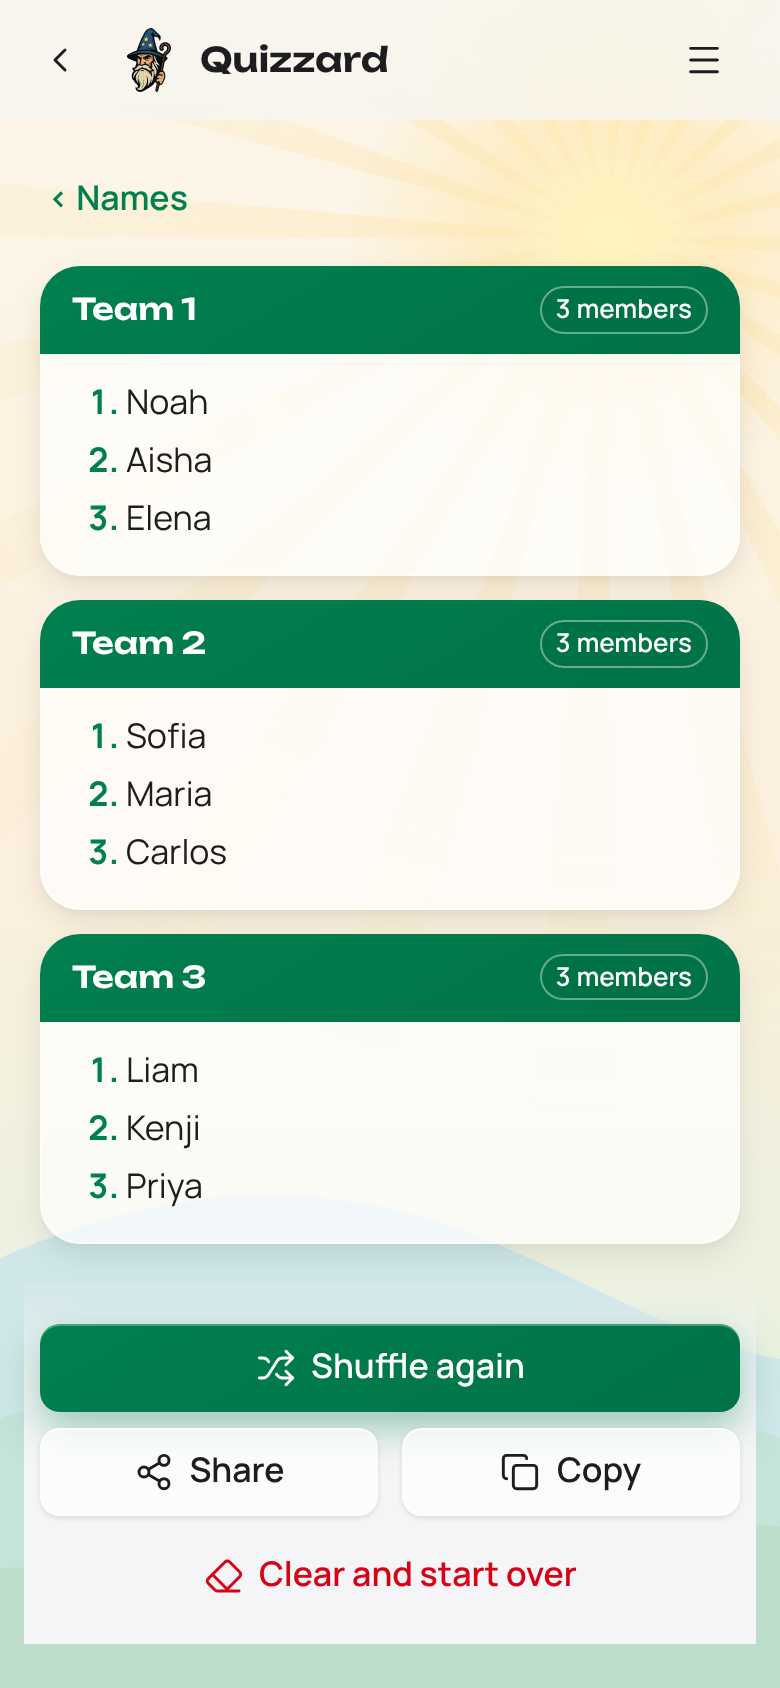
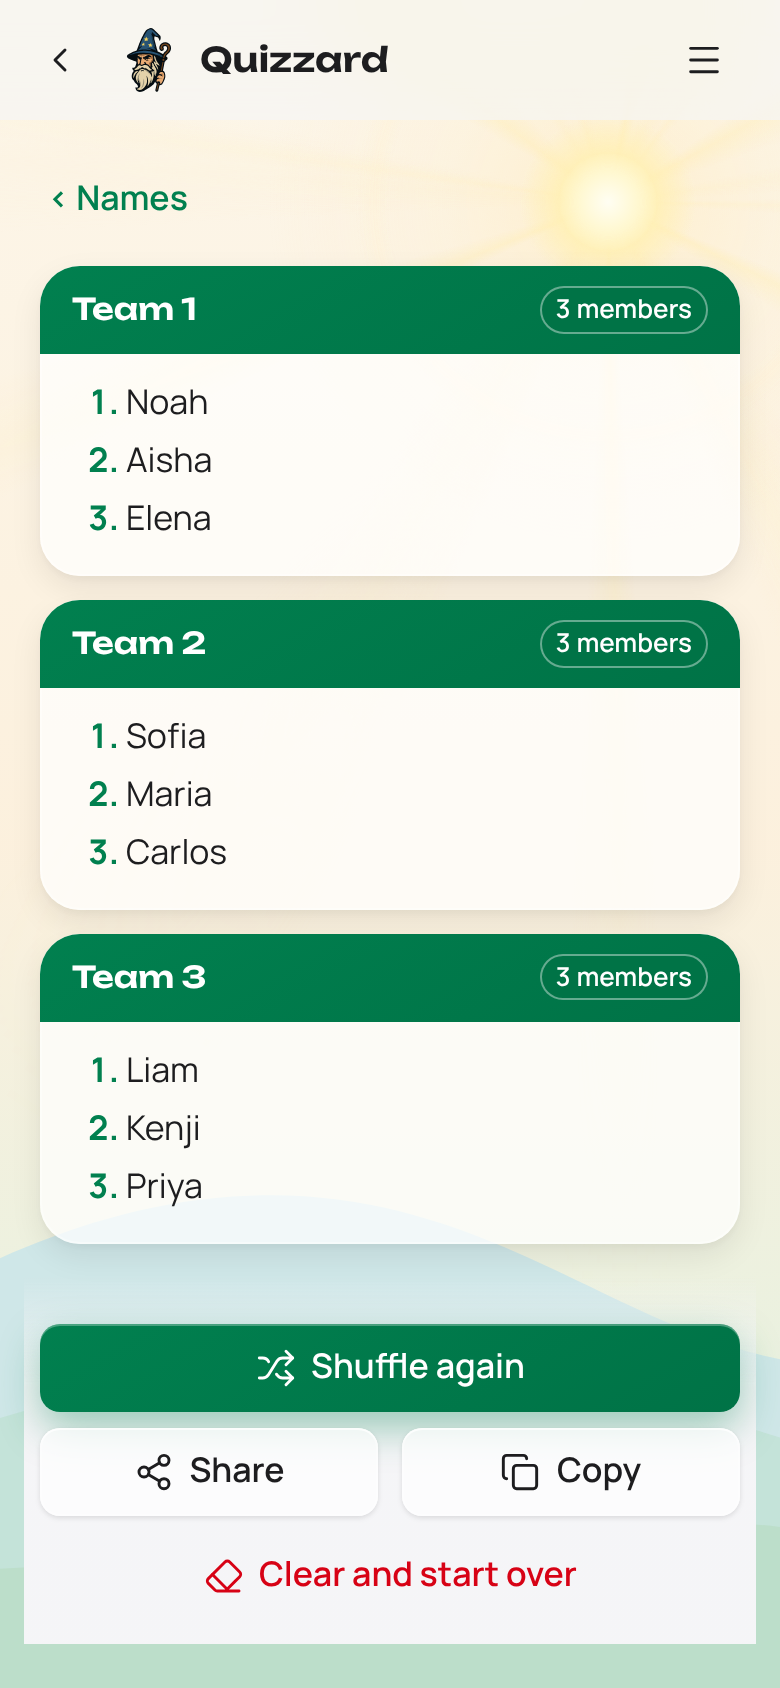
feat: a calmer day sun — soft uneven beams, bloom and lens halo (0.16.2)
Claude-Session: https://claude.ai/code/session_011u5MwhQ4SCvg7CGyrWTMMa

diff --git a/app/src/styles/components/scene.css b/app/src/styles/components/scene.css
@@ -126,42 +126,144 @@
   }
 
   /* || Components: scene — day */
-  /* Pale rays from the sun, turning very slowly; a radial mask fades them out long before the edges. */
+  /* Light from the sun, like beams through haze rather than a drawn sun: two fans of soft beams of uneven width
+     and angle, turning very slowly in opposite directions, so where they cross the light shimmers. Every beam
+     fades in and out (no hard edge), and a radial mask lets them die out long before the edges of the screen. */
   .scene-rays {
     --scene-sun-x: 78%;
-    --scene-sun-y: 14%;
-    --scene-rays-size: 170vmax;
+    --scene-sun-y: 12%;
+    --scene-rays-size: 190vmax;
+    --scene-beam: oklch(96% 0.07 88 / 0.62);
+    --scene-beam-soft: oklch(96% 0.06 88 / 0.34);
 
     position: absolute;
     left: calc(var(--scene-sun-x) - var(--scene-rays-size) / 2);
     top: calc(var(--scene-sun-y) - var(--scene-rays-size) / 2);
     inline-size: var(--scene-rays-size);
     block-size: var(--scene-rays-size);
-    background: repeating-conic-gradient(
-      oklch(93% 0.07 88 / 0.55) 0deg 5deg,
-      transparent 5deg 15deg
+    mask: radial-gradient(
+      circle,
+      black 0%,
+      rgb(0 0 0 / 0.55) 16%,
+      rgb(0 0 0 / 0.18) 32%,
+      transparent 48%
     );
-    mask: radial-gradient(circle, black 0%, transparent 45%);
-    will-change: transform;
 
-    @media (prefers-reduced-motion: no-preference) {
-      animation: scene-turn 160s linear infinite;
+    &::before,
+    &::after {
+      content: "";
+      position: absolute;
+      inset: 0;
+      will-change: transform;
+    }
+
+    /* The main fan: a dozen beams, wide and narrow, never evenly spaced. */
+    &::before {
+      background: conic-gradient(
+        from 8deg,
+        transparent 0deg,
+        var(--scene-beam) 4deg,
+        transparent 10deg,
+        transparent 26deg,
+        var(--scene-beam-soft) 29deg,
+        transparent 33deg,
+        transparent 47deg,
+        var(--scene-beam) 53deg,
+        transparent 63deg,
+        transparent 81deg,
+        var(--scene-beam-soft) 83deg,
+        transparent 86deg,
+        transparent 104deg,
+        var(--scene-beam) 108deg,
+        transparent 115deg,
+        transparent 139deg,
+        var(--scene-beam-soft) 144deg,
+        transparent 151deg,
+        transparent 168deg,
+        var(--scene-beam) 171deg,
+        transparent 175deg,
+        transparent 197deg,
+        var(--scene-beam-soft) 203deg,
+        transparent 214deg,
+        transparent 236deg,
+        var(--scene-beam) 240deg,
+        transparent 246deg,
+        transparent 268deg,
+        var(--scene-beam-soft) 270deg,
+        transparent 273deg,
+        transparent 292deg,
+        var(--scene-beam) 299deg,
+        transparent 309deg,
+        transparent 331deg,
+        var(--scene-beam-soft) 335deg,
+        transparent 341deg,
+        transparent 360deg
+      );
+
+      @media (prefers-reduced-motion: no-preference) {
+        /* steps(): 30 small turns a second (under half a pixel at the screen's edge) instead of 60 — the same
+           motion to the eye, half the redrawing. */
+        animation: scene-turn 240s steps(7200) infinite;
+      }
+    }
+
+    /* A fainter fan the other way round: its beams drift across the first. */
+    &::after {
+      opacity: 0.7;
+      background: conic-gradient(
+        from 20deg,
+        transparent 0deg,
+        var(--scene-beam-soft) 6deg,
+        transparent 14deg,
+        transparent 58deg,
+        var(--scene-beam-soft) 62deg,
+        transparent 67deg,
+        transparent 121deg,
+        var(--scene-beam-soft) 128deg,
+        transparent 138deg,
+        transparent 182deg,
+        var(--scene-beam-soft) 185deg,
+        transparent 189deg,
+        transparent 247deg,
+        var(--scene-beam-soft) 254deg,
+        transparent 263deg,
+        transparent 305deg,
+        var(--scene-beam-soft) 309deg,
+        transparent 314deg,
+        transparent 360deg
+      );
+
+      @media (prefers-reduced-motion: no-preference) {
+        animation: scene-turn 360s steps(10800) infinite reverse;
+      }
     }
   }
 
+  /* The sun itself: a small bright core in a wide warm bloom, and a thin halo ring as in a camera lens. */
   .scene-sun {
+    --scene-sun-size: 46vmax;
+
     position: absolute;
-    left: calc(78% - 16vmax);
-    top: calc(14% - 16vmax);
-    inline-size: 32vmax;
-    block-size: 32vmax;
+    left: calc(78% - var(--scene-sun-size) / 2);
+    top: calc(12% - var(--scene-sun-size) / 2);
+    inline-size: var(--scene-sun-size);
+    block-size: var(--scene-sun-size);
     border-radius: 50%;
-    background: radial-gradient(
-      circle,
-      oklch(97% 0.07 92) 0%,
-      oklch(94% 0.08 85 / 0.6) 30%,
-      transparent 68%
-    );
+    background:
+      radial-gradient(
+        circle,
+        oklch(99.5% 0.015 95) 0%,
+        oklch(98% 0.05 92) 5%,
+        oklch(96% 0.08 88 / 0.85) 9%,
+        transparent 16%
+      ),
+      radial-gradient(circle, transparent 40%, oklch(96% 0.05 85 / 0.22) 42.5%, transparent 46%),
+      radial-gradient(
+        circle,
+        oklch(95% 0.07 82 / 0.55) 0%,
+        oklch(95% 0.06 80 / 0.2) 30%,
+        transparent 62%
+      );
   }
 
   .scene-mountains {

diff --git a/app.config.ts b/app.config.ts
@@ -85,7 +85,7 @@ export const app = {
   description: "Free toolkit for pub quizzes and game nights: random team generator, score keeper and answer sheet. Works offline, no account, data stays on your device.",
   url: "https://simeontsvetanov.github.io/Quizzard/",
   repo: "https://github.com/SimeonTsvetanov/Quizzard",
-  version: "0.16.1",
+  version: "0.16.2",
   languages: ["en", "bg"],
   // Palette C · Emerald (DECISIONS 2026-11-22): white text on the light one (5.00:1), dark text on the dark one.
   accent: { light: "#00804F", dark: "#34D399" },

diff --git a/docs/DECISIONS.md b/docs/DECISIONS.md
@@ -86,3 +86,4 @@ Format: date · decision · reason.
 - 2026-11-23 · The wordmark's box is as wide as its letters (`fit-content`), so the splash's wordmark flies onto a box of its own size; the wizard flies to the header logo, or to the big wizard where Home has no bar · Moni: the name grew far past its final size and then snapped small; the flight measured the full-width row, not the text.
 - 2026-11-23 · Background setting (Settings → Background: Animated | Simple, default Animated, key `quizzard:v1:backdrop`, applied by theme-init.js before the first paint): dark theme = a night sky of three star layers drifting upwards (rebuilt after the classic CSS "parallax stars" pen Moni picked: box-shadow dots, a copy 2000px below, translateY loop), light theme = three soft mountain ranges under a pale sun with slowly turning rays · Moni wants to try a livelier look and return to the simple one with one tap. Cost measured here without a GPU: about half a core while Home is open (Simple: ~0); only transform moves, so a phone composites it on the GPU; the scene stands still while a tool is open and with reduced motion. This supersedes "no infinite animation in the shell" for this one opt-out layer — the CI failures blamed on animations were the unhandled skipped transition.
 - 2026-11-23 · Smoother screen change: the morph waits at most 150 ms for the tool to mount (was 350), the scene pauses during a view transition (`:active-view-transition`: the new picture is live, a moving sky would be redrawn into it every frame), redrawn Home tiles do not rise in again (`data-settled`) and the wordmark replays only after the change (`after` of morphScreens) · Moni found opening and closing a tool choppy. Static pages (policies, 404) load the app fonts from public/fonts (generated, not precached) and use glass cards over the Home glow; the 404 shows "4 🧙 4" and follows the saved language (data-bg texts, error-page.js).
+- 2026-11-23 · Day sun: two counter-turning fans of soft, uneven beams (conic gradients, every beam fading in and out) under a radial mask, a small core with a wide bloom and a lens halo; turned with steps() at 30 updates a second · Moni found the striped sun childish. Cost here without a GPU: ~40 % of a core with the steps (60 % without), like the 0.16.0 stripes.

diff --git a/CHANGELOG.md b/CHANGELOG.md
@@ -4,6 +4,11 @@ All notable user-facing changes. Format: Keep a Changelog · SemVer.
 
 ## [Unreleased]
 
+## [0.16.2] - 2026-11-23
+### Changed
+- Light theme: the sun is calmer and more grown-up — soft beams of uneven width that drift across each other
+  like light through haze, a bright core with a wide glow and a faint lens halo, instead of drawn stripes.
+
 ## [0.16.1] - 2026-11-23
 ### Changed
 - Opening and closing a tool is smoother: nothing else moves while the tile grows into the tool, and the tool
